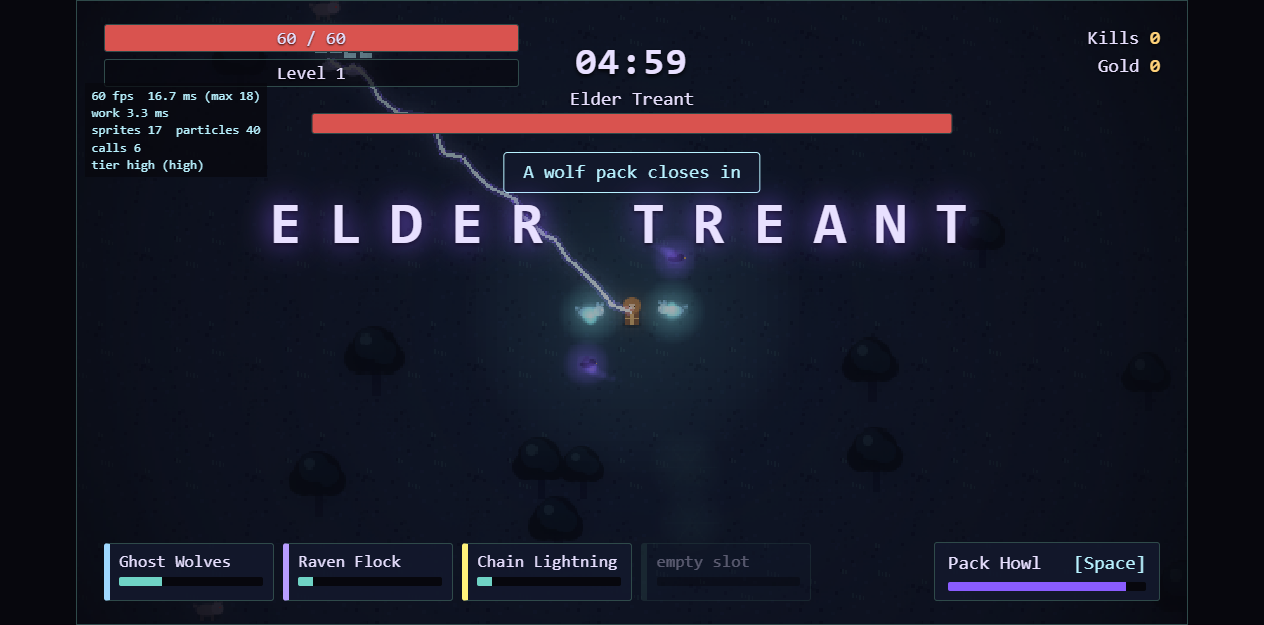
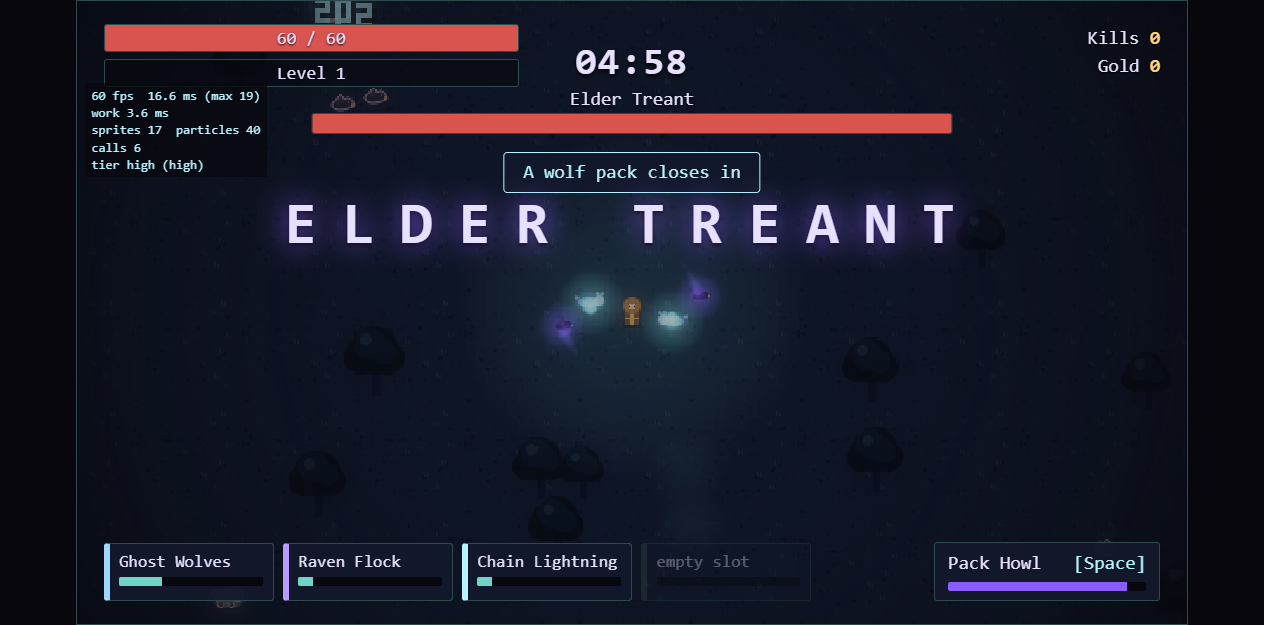
Polish: enemy rim-light, rose/gold dawn, bigger outlined damage numbers, softer evolution flash, retaken screenshots

diff --git a/src/scenes/RunScene.js b/src/scenes/RunScene.js
@@ -30,6 +30,23 @@ function tex(scene, key, w, h, draw) {
   g.destroy();
 }
 
+function rim(scene, key, col) {
+  const src = scene.textures.get(key).getSourceImage();
+  const w = src.width + 2;
+  const h = src.height + 2;
+  const c = document.createElement('canvas');
+  c.width = w; c.height = h;
+  const x = c.getContext('2d');
+  for (const d of [[0, 1], [2, 1], [1, 0], [1, 2]]) x.drawImage(src, d[0], d[1]);
+  x.globalCompositeOperation = 'source-in';
+  x.fillStyle = col;
+  x.fillRect(0, 0, w, h);
+  x.globalCompositeOperation = 'source-over';
+  x.drawImage(src, 1, 1);
+  scene.textures.remove(key);
+  scene.textures.addCanvas(key, c);
+}
+
 function makeTextures(scene) {
   tex(scene, 'ground', 64, 64, (g) => {
     g.fillStyle(0x1d2b3a, 1).fillRect(0, 0, 64, 64);
@@ -174,6 +191,9 @@ function makeTextures(scene) {
     t.refresh();
   }
 
+  // 1px rim-light on enemies (baked once: no extra draw calls) so they read against the dusk grade.
+  for (const k of ['wolf', 'crow', 'root', 'treant']) rim(scene, k, '#d6a8c4');
+
   tex(scene, 'dot', 2, 2, (g) => { g.fillStyle(0xffffff, 1).fillRect(0, 0, 2, 2); });
 }
 
@@ -239,7 +259,7 @@ export class RunScene extends Phaser.Scene {
     this.vig = this.add.image(320, 180, 'vig').setScrollFactor(0).setDepth(D_VIG).setDisplaySize(656, 369).setTint(PAL.ink);
     this.vigLow = false;
     // warm pre-dawn glow: additive wash that grows over the last ~25% of the run (Med/High)
-    this.dawn = this.add.rectangle(320, 180, 760, 440, 0xff7a3a).setScrollFactor(0).setDepth(D_VIG - 2).setBlendMode(Phaser.BlendModes.ADD).setVisible(false);
+    this.dawn = this.add.rectangle(320, 180, 760, 440, 0xffa888).setScrollFactor(0).setDepth(D_VIG - 2).setBlendMode(Phaser.BlendModes.ADD).setVisible(false);
     this.gradeCol = -1;
     this.gradeTint = -1;
 
@@ -472,7 +492,7 @@ export class RunScene extends Phaser.Scene {
 
   evolveMoment() {
     const p = this.sim.player;
-    this.flash(PAL.gold, 0.45, 0.7);
+    this.flash(PAL.gold, 0.32, 0.6);
     this.addRing(p.x, p.y, 8, 220, 1.0, PAL.gold, 3);
     this.addRing(p.x, p.y, 8, 150, 0.8, PAL.lavender, 2, 0.15);
     this.burst(p.x, p.y, 34, PAL.gold, 150, 1.0, 0.7);
@@ -506,7 +526,7 @@ export class RunScene extends Phaser.Scene {
   updateGrade(f) {
     const col = gradeAt(Math.round(f * 150) / 150);
     this.gradeNow = col;
-    const dw = f > 0.75 ? Math.min(1, (f - 0.75) / 0.25) * 0.2 : 0;
+    const dw = f > 0.7 ? Math.min(1, (f - 0.7) / 0.3) * 0.36 : 0;
     if (dw > 0 && this.quality.caps.grade) this.dawn.setVisible(true).setAlpha(dw);
     else if (this.dawn.visible) this.dawn.setVisible(false);
     if (this.quality.caps.grade) {
@@ -642,7 +662,7 @@ export class RunScene extends Phaser.Scene {
     for (const e of sim.enemies) {
       if (!e.boss && (e.x < vx0 || e.x > vx1 || e.y < vy0 || e.y > vy1)) continue;
       const img = pl[e.type].get(e.id);
-      img.setPosition(e.x, e.y).setDepth(e.y).setFlipX(e.faceX < 0);
+      img.setPosition(e.x, e.y).setDepth(D_LIT + e.y).setFlipX(e.faceX < 0);
       if (e.flash > 0) img.setTintFill(0xffffff);
       else if (e.bleedT > 0) img.setTint(0xff9a9a);
       else img.clearTint();

diff --git a/src/gfx/dmgnums.js b/src/gfx/dmgnums.js
@@ -8,14 +8,19 @@ const GLYPHS = [
 
 export function makeDigitFont(scene) {
   if (scene.cache.bitmapFont.exists('digits')) return;
+  // 5x7 cells: 3x5 white glyph with a baked 1px dark drop-shadow (stays crisp on dark and bright backgrounds; tint only colours the glyph).
   const g = scene.make.graphics({ x: 0, y: 0, add: false });
-  g.fillStyle(0xffffff, 1);
   GLYPHS.forEach((bits, i) => {
-    for (let k = 0; k < 15; k++) if (bits[k] === '1') g.fillRect(i * 4 + (k % 3), Math.floor(k / 3) + 1, 1, 1);
+    g.fillStyle(0x07070d, 1);
+    for (let k = 0; k < 15; k++) if (bits[k] === '1') g.fillRect(i * 5 + 2 + (k % 3), 1 + Math.floor(k / 3), 1, 1);
   });
-  g.generateTexture('digits', 40, 7);
+  GLYPHS.forEach((bits, i) => {
+    g.fillStyle(0xffffff, 1);
+    for (let k = 0; k < 15; k++) if (bits[k] === '1') g.fillRect(i * 5 + 1 + (k % 3), Math.floor(k / 3), 1, 1);
+  });
+  g.generateTexture('digits', 50, 7);
   g.destroy();
-  const data = Phaser.GameObjects.RetroFont.Parse(scene, { image: 'digits', width: 4, height: 7, chars: '0123456789', charsPerRow: 10, spacing: { x: 0, y: 0 }, offset: { x: 0, y: 0 } });
+  const data = Phaser.GameObjects.RetroFont.Parse(scene, { image: 'digits', width: 5, height: 7, chars: '0123456789', charsPerRow: 10, spacing: { x: 0, y: 0 }, offset: { x: 0, y: 0 } });
   scene.cache.bitmapFont.add('digits', data);
 }
 
@@ -58,7 +63,7 @@ export class DamageNumbers {
     for (let i = 0; i < items.length; i++) if (!items[i].on) { n = items[i]; break; }
     if (!n) {
       if (items.length >= 40) return;
-      n = { t: this.scene.add.bitmapText(0, 0, 'digits', '0').setOrigin(0.5).setDepth(this.depth), on: false, age: 0, val: 0, eid: 0, big: false, x: 0, y: 0 };
+      n = { t: this.scene.add.bitmapText(0, 0, 'digits', '0').setLetterSpacing(-1).setOrigin(0.5).setDepth(this.depth), on: false, age: 0, val: 0, eid: 0, big: false, x: 0, y: 0 };
       items.push(n);
     }
     n.on = true; n.age = 0; n.val = val; n.eid = eid; n.big = big; n.x = x + (Math.random() - 0.5) * 6; n.y = y - 8;
@@ -74,8 +79,8 @@ export class DamageNumbers {
       n.age += dt;
       if (n.age >= LIFE) { n.on = false; n.t.setVisible(false); this.alive--; continue; }
       const k = n.age / LIFE;
-      const pop = k < 0.15 ? 1.6 - (k / 0.15) * 0.6 : 1;
-      n.t.setPosition(n.x, n.y - 22 * k).setScale((n.big ? 2 : 1.5) * pop).setAlpha(k < 0.6 ? 1 : 1 - (k - 0.6) / 0.4);
+      const pop = k < 0.12 ? 1.5 - (k / 0.12) * 0.5 : 1;
+      n.t.setPosition(n.x, n.y - 26 * k).setScale((n.big ? 3 : 2) * pop).setAlpha(k < 0.6 ? 1 : 1 - (k - 0.6) / 0.4);
     }
   }
 }

diff --git a/src/gfx/palette.js b/src/gfx/palette.js
@@ -43,8 +43,8 @@ const GRADE = [
   [0.0, 0xa592f0],
   [0.3, 0x8296e6],
   [0.6, 0x7690d6],
-  [0.85, 0xe8a0a0],
-  [1.0, 0xffd9a0],
+  [0.85, 0xe8b0b8],
+  [1.0, 0xffd0b0],
 ];
 
 const ch = (c, s) => (c >> s) & 255;

diff --git a/docs/research/13-ui-and-visual-style.md b/docs/research/13-ui-and-visual-style.md
@@ -1,0 +1,82 @@
+# 13 - UI and visual style research (checked 2026-10-14)
+
+Labels: OFFICIAL = primary source fetched; COMMUNITY = forum/wiki/press; OPINION = my synthesis or background knowledge, NOT verified by a fetched source this session. Web search tool returned thin results for many games (no devlogs found for VS/Brotato/HoloCure resolution), so per-game rows are mostly OPINION; treat as direction, verify by looking at screenshots.
+
+## 1. Game survey (art approach / what reads modern)
+| Game | Art approach | Notes for us | Label / source |
+|---|---|---|---|
+| Vampire Survivors | Low-res pixel, plain HUD, simple XP bar, 3-4 card level-up | Proof that "blocky" can sell, but it is the exception; relies on VFX density | OPINION; reviews call it rough at first glance (destructoid, via search) |
+| Brotato | Chunky simple cartoon pixel-ish sprites, Godot, bold outlines, readable HUD | Clean flat shapes + strong outlines read as intentional, not crude | OPINION (no devlog found); engine Godot per Wikipedia mirror |
+| HoloCure | GameMaker pixel art, anime chibi sprites, bright UI | Charm via consistent sprite style | COMMUNITY https://en.wikipedia.org/wiki/HoloCure_%E2%80%93_Save_the_Fans! |
+| Halls of Torment | "Pre-rendered" late-90s RPG look (Diablo-like), dark palette | Dark + gritty + pre-rendered shading = premium feel at low res | OFFICIAL-ish press: https://80.lv/articles/halls-of-torment-a-survival-roguelite-with-90s-visual-style/ ; https://www.gamedeveloper.com/press-release/halls-of-torment-will-release-its-1-0-version-on-steam-this-september-24 |
+| Death Must Die | Detailed pixel/sprite art, Hades-style god boons, Diablo loot | Rich UI chrome (frames, item tooltips) | COMMUNITY https://www.pcgamesn.com/death-must-die/act-2-steam ; art style wording unverified |
+| Soulstone Survivors | Brighter colours + dark fantasy characters; devs stress readability vs flashy spells | Our exact theme; readability rule: effects must not hide enemies | COMMUNITY https://rogueliker.com/soulstone-survivors-interview/ |
+| Spirit Hunters: Infinite Horde | Mobile-ish smooth 2D, spirit/ghost theme | Closest comparison; no source fetched | OPINION |
+| Survivor.io / Archero | 3D-ish stylised, big bright HUD, joystick, 3-choice skill pick, top-centre XP bar with timer | Mobile HUD conventions: top XP bar + timer, thumb joystick bottom | COMMUNITY https://www.talkandroid.com/24372-survivor-io-ultimate-game-guide-with-tips-2023/ ; https://www.pocketgamer.biz/feature/79592/how-innovation-and-iteration-has-transformed-survivorio/ |
+| 20 Minutes Till Dawn | Low-res pixel + heavy glow/screen shake/post FX | Post FX (bloom, vignette) hides low res | OPINION |
+| Dead Cells | 3D models rendered to pixel sprites with shaders; normal-mapped sprite lighting | Premium comes from lighting + many animation frames, not resolution | COMMUNITY https://80.lv/articles/case-study-dead-cells-character-art-pipeline/ (points to Dan Moran talk; code https://github.com/Broxxar/PixelArtPipeline) ; Thomas Vasseur article "Art Design Deep Dive" on Game Developer (not fetched) |
+| Hades | Hand-painted 2D art look, bold shape language, strong lines, painted-in light | Strong silhouettes + rim colours + painted glow = "wow" | COMMUNITY https://en.wikipedia.org/wiki/Jen_Zee ; pipeline details unverified |
+| Hollow Knight | Hand-drawn vector-like 2D, silhouettes, soft glows, limited palette per area | Closest mood to "moonlit spirit glow" and uses smooth, not pixel | OPINION |
+| Wizard of Legend | Pixel with big bright spell VFX and bold UI | Spell VFX do the heavy lifting | OPINION |
+| Diablo Immortal HUD | Skill buttons in arc bottom-right, orbs, ornate frames | Phone layout reference | OPINION |
+
+Cross-cutting takeaways (OPINION): modern = smooth gradients/glow on UI, consistent resolution, lit sprites, particles + bloom, soft vignette, readable silhouettes, ample animation. Blocky = low-res art stretched, mixed pixel sizes, flat square HUD boxes, no lighting, monospace.
+
+## 2. What makes pixel art look cheap vs premium
+| Cause | Fix in Phaser 3 | Phone cost |
+|---|---|---|
+| 640x360 nearest-neighbour stretched to 1080p+ (6x pixels, hard edges) | Render at native/DPR resolution; draw sprites at 2-4x res | Higher fill rate; cap DPR at 2 |
+| Non-integer scale = uneven pixel widths | Integer scale or abandon pixel look for smooth | none |
+| Mixels (rotated/scaled sprites at different pixel sizes) | Use consistent scale; avoid rotating pixel sprites; or go smooth | none |
+| Sub-pixel movement shimmer | `roundPixels` (default true since 3.70.0, OFFICIAL https://github.com/phaserjs/phaser/releases/tag/v3.70.0); for smooth art set `roundPixels:false` | none |
+| Hard edges on glow/FX | `pixelArt:false` + `antialias:true` -> LINEAR filtering; additive blend glows, bloom-like soft sprites | small |
+| Flat, unlit sprites | Rim light tint, soft ground shadow ellipse, ambient vignette, glow auras on spirits | small |
+| Few anim frames | 4-6 frame walk, squash/stretch tweens, hit flash | memory |
+| Monospace chunky UI | Real fonts (below), rounded gradient panels | DOM cost low |
+Notes: pixelArt:true sets NEAREST filter and disables AA; pixelArt:false with antialias true gives LINEAR smoothing (OFFICIAL Phaser 3.70 notes, search summary; Phaser 4 pixel guide: https://cdn.jsdelivr.net/npm/phaser@4.2.0/docs/Phaser%204%20Pixel%20Art%20Guide/Phaser%204%20Pixel%20Art%20Guide.md - explains rounded vs smooth pixel art; Phaser 4 only). Phaser 3 `resolution` config: forum advice is dated (2018-19, set to devicePixelRatio, COMMUNITY https://www.joshmorony.com/how-to-use-retina-graphics-in-html5-phaser-games/); I believe it was removed in 3.60 - VERIFY in our installed version. Reliable alternative: set game width/height = window size * min(DPR,2) with Scale.FIT/RESIZE and zoom the camera, so art is generated at that scale. Test text crispness separately (canvas text resolution).
+Mobile cost rule of thumb (OPINION): canvas pixel count x2.25 (DPR 1.5) is fine on mid phones; DPR 3 native (~9x) is not. Cap at DPR 2 and add a quality toggle.
+
+## 3. DOM overlay modern UI
+- backdrop-filter: works broadly (Chrome 76+, Firefox 103+, Safari with -webkit-, COMMUNITY https://www.testmuai.com/learning-hub/css-backdrop-filter-browser-support/). Cost: re-blurs moving content behind every frame; reported lag on Firefox Android/m.youtube (COMMUNITY https://bug635044.bugzilla.mozilla.org/show_bug.cgi?id=1732817). Rule: use on the level-up overlay only (game paused behind it, so static), NOT on in-run HUD; HUD uses semi-opaque gradients. Provide `@media (hover:none)` smaller blur (6px) and a no-blur fallback.
+- Glow borders: `box-shadow: 0 0 12px color-mix(...)`, gradient border via `border:1px solid transparent; background: linear-gradient(panel) padding-box, linear-gradient(accent) border-box`. Animated bars: transform:scaleX on a gradient fill, not width. Cards: `transform: translateY(-6px) scale(1.04)` on hover/selected, rarity via glow colour, `will-change:transform` only on cards.
+- Icons (licences verified from repo/site):
+| Set | Licence | Attribution |
+|---|---|---|
+| game-icons.net | CC BY 3.0 (OFFICIAL https://game-icons.net/about.html) | Required: "Icons made by {author}. Available on https://game-icons.net" put in CREDITS; per-icon author |
+| Lucide | ISC (+ MIT for Feather-derived) (OFFICIAL https://raw.githubusercontent.com/lucide-icons/lucide/main/LICENSE) | Keep licence text in CREDITS |
+| Phosphor | MIT (OFFICIAL https://raw.githubusercontent.com/phosphor-icons/core/main/LICENSE) | keep notice |
+| Tabler | MIT (OFFICIAL https://raw.githubusercontent.com/tabler/tabler-icons/main/LICENSE) | keep notice |
+Use game-icons for weapon/card art (fantasy), Lucide/Phosphor for UI glyphs. Inline SVG only; never innerHTML from untrusted data.
+- Fonts (all SIL OFL 1.1 per google/fonts repo; self-host woff2, subset to Latin, keep OFL.txt in CREDITS):
+| Font | Use | Licence check |
+|---|---|---|
+| Cinzel | titles/card names (inscription caps; legibility drops below ~14px) | OFL 1.1 verified, copyright "The Cinzel Project Authors", no RFN (https://raw.githubusercontent.com/google/fonts/main/ofl/cinzel/OFL.txt) |
+| Metamorphous | gothic headings | OFL (METADATA.pb), James Grieshaber |
+| Cormorant Garamond | elegant body/flavour | OFL, Christian Thalmann |
+| Spectral | body text, screen-first | OFL, Production Type |
+| Almendra | decorative flavour only | OFL, Ana Sanfelippo |
+| Rajdhani | HUD numbers, squarish legible small | OFL, Indian Type Foundry |
+Suggested pairing: Cinzel (headings) + Rajdhani (numbers/HUD, tabular). Add `font-display:swap`; embed base64 in single-file build (watch size: subset to ~15-25 KB each).
+
+### Three UI mood directions
+1. **Moonlit Glass** (modern, recommended): bg #070b16; panel rgba(14,22,44,.55) + backdrop-filter blur(10px) (level-up screen only), 1px gradient border cyan #5ee6ff -> violet #8b6cff at 60% alpha, radius 14px, glow `0 0 18px rgba(94,230,255,.25)`; gold #ffd36b for evolutions; Cinzel 600 headings, Rajdhani 600 numbers. Cards 16px radius, rarity glow, hover lift.
+2. **Gilded Grimoire** (ornate): panels #0d1020 solid with gold #c9a24a 1.5px border, inner 1px darker line, radius 6px with corner-notch via clip-path; parchment-tinted text #e9dfc6; Metamorphous headings, Spectral body; subtle noise texture via SVG feTurbulence data-URI. Cheaper on GPU (no blur).
+3. **Neon Spirit-Tech** (clean game-UI): flat dark #0a0f1f, 2px cyan outline with outer glow, radius 10px, skewed buttons (transform: skewX(-8deg)), Rajdhani throughout, violet accents; lowest effort, mobile-safe, but less "dark fantasy".
+
+## 4. Smooth non-pixel art, free and licence-safe
+- Procedural sprites (OPINION, effort M): draw in code with Phaser Graphics/Canvas2D or inline SVG, rasterise once to textures at 2x-4x (`textures.addCanvas` / SVG->Image->canvas), so zero per-frame cost. Recipe for a spirit: radial gradient body (cyan core -> transparent), 2-3 layered additive blobs, small eyes, trailing alpha ghosts, additive aura sprite, soft ellipse ground shadow (alpha .35), 2px darker outline, rim tint top-left. Wolves/crows: silhouette polygons with gradient + glowing eyes (eyes + glow do 80% of the "wow").
+- Fake lighting: vignette overlay, light radius sprite around player (additive), tint ramp by distance, bloom via a pre-blurred glow texture (cheap) rather than shaders.
+- Free packs: Kenney = CC0, no credit needed (OFFICIAL https://kenney.nl/support). Kenney styles are flat/cartoon and mix poorly with glow-spirit art; use only for UI sounds/particles/icons, not core sprites (OPINION). OpenGameArt: licence varies per item (CC0/CC-BY/GPL) - verify each page before use; not checked here.
+- Mixing rule: do not mix pixel packs with smooth glow art; pick one language. Premium = consistent palette, silhouettes, glow; cheap = mismatched outline weights and styles.
+- AI-generated art: licence/provenance uncertain, inconsistent style across frames, platform rules vary; not recommended as default; if ever used, log tool + ToS in CREDITS.
+
+## 5. Recommendation
+| | A: Smooth modern vector-glow | B: Modern HD pixel |
+|---|---|---|
+| Steps | 1) Config: pixelArt:false, antialias true, roundPixels false, canvas = window*min(DPR,2). 2) Procedural texture factory (spirit/wolf/crow/treant + glow + shadow). 3) Additive FX, vignette, player light. 4) Moonlit Glass DOM UI + fonts + game-icons. 5) Hit flash, squash tweens, particles. | 1) Redraw/obtain 32x32+ sprites with shading (hand/Aseprite or CC0 pack). 2) Render at 3-4x integer scale with NEAREST. 3) Add glow overlays/bloom sprites for smoothness. 4) Same UI as A. 5) Animation frames. |
+| Effort | M | L (art-heavy; CC0 packs rarely match theme) |
+| Risks | Procedural art can look amateur without discipline; text blur at DPR | Art supply/consistency; still blocky if scale not integer |
+| Mobile perf | Low-medium (fill-rate; textures pre-rasterised; cap DPR 2) | Low (small textures) but integer scaling letterboxes |
+| Prototype should show | 1 spirit + 30 enemies + glow gems + UI card screen at DPR 1 and 2 on a real phone; FPS counter | same scene with 32px pixel sprites, side-by-side |
+
+**Pick A** for "wow" under free/solo/phone constraints: glow, gradients, soft shadows are exactly what code can make with no art skill or licence risk, and it matches the Moonlit Spirit-Glow palette; B depends on scarce matching free art. Do a 1-day in-engine A/B toggle prototype before committing. Keep sim untouched (render-only change). OPINION throughout; confirm on device.
